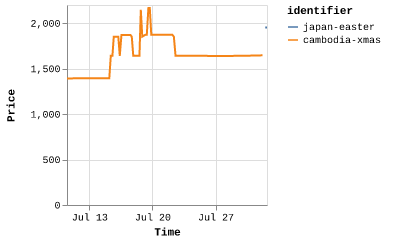
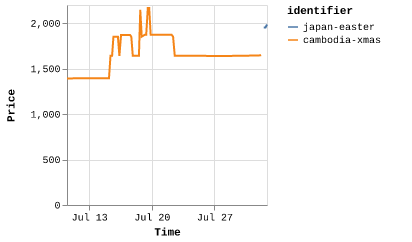
Latest scraping flights: Fri Aug  1 20:51:21 UTC 2025

diff --git a/scrapes/flights/japan-easter.md b/scrapes/flights/japan-easter.md
@@ -1,1 +1,1 @@
-€1,953
+€1,985
